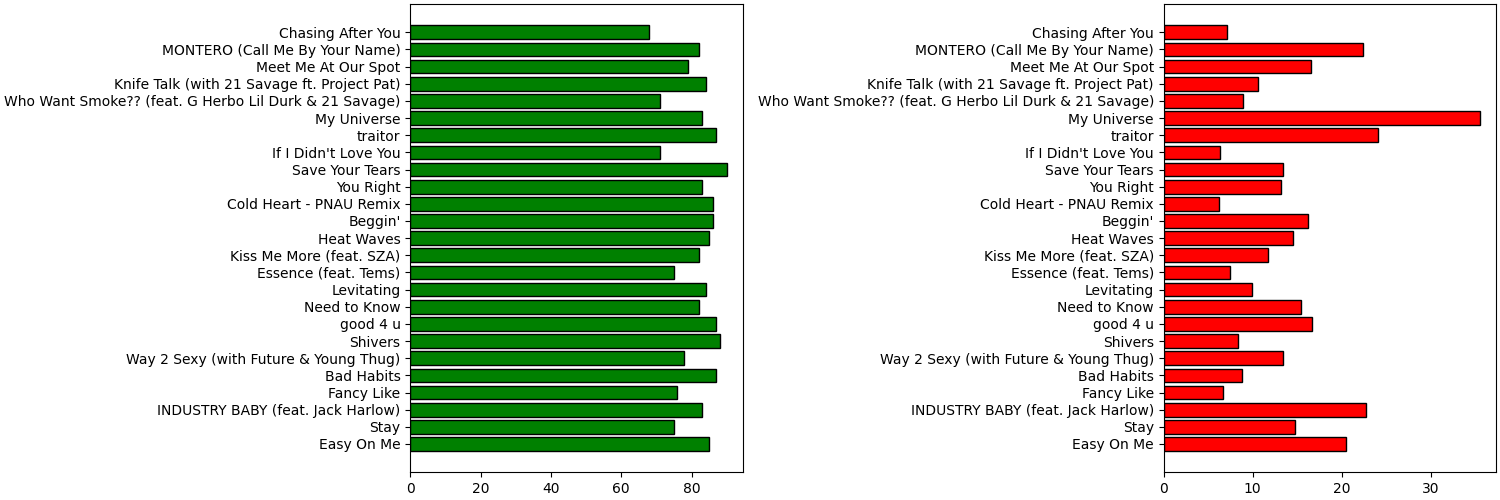
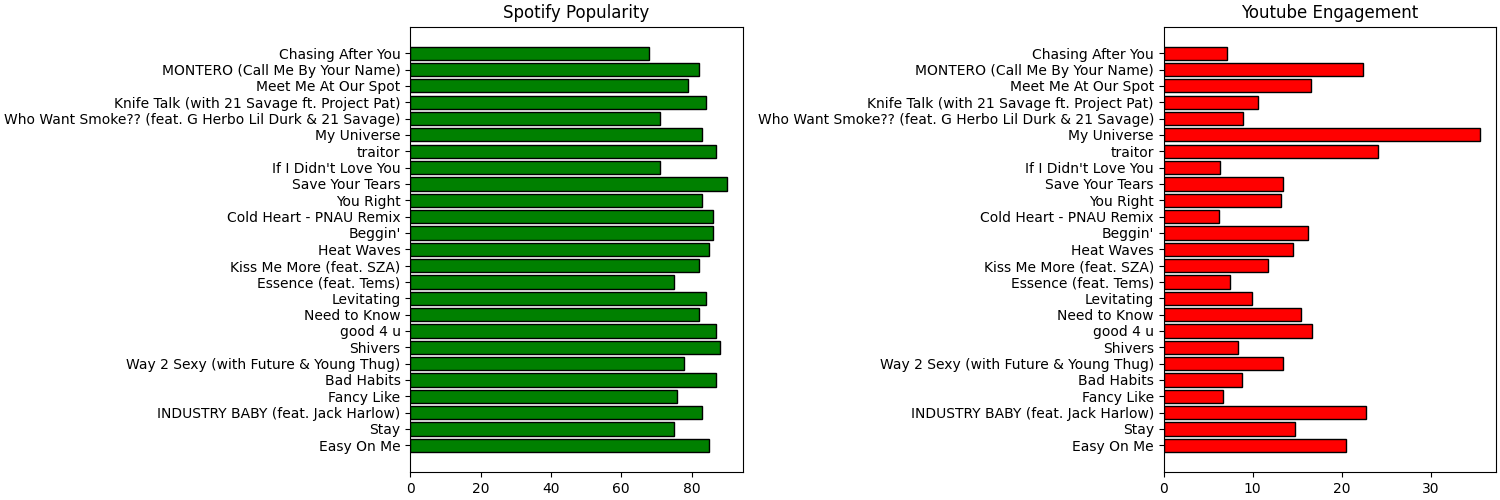
added titles

Changed region(s): [[0.0, 0.0, 1.0, 0.93]]

diff --git a/visuals.py b/visuals.py
@@ -34,22 +34,14 @@ def double_bar(data):
 
     ax[0,] = plt.subplot(121)
     ax[0].barh(X, Y_pop, align='center', color='green', edgecolor='black')
+    ax[0].title.set_text("Spotify Popularity")
   
     ax[1] = plt.subplot(122, sharey=ax[0])
     ax[1].barh(X, Y_eng, align='center', color='red', edgecolor='black')
+    ax[1].title.set_text("Youtube Engagement")
         
     plt.savefig("double_bar.png")
     plt.show()  
     plt.close()
 
 double_bar(processed)
-
-#plt.bar(x_axis - 0.2, Y_pop, 0.4, label = 'Spotify Popularity')
- #   plt.bar(x_axis + 0.2, Y_eng, 0.4, label = 'Youtube Engagement')
-  
-  #  plt.xticks(x_axis + 0.25/2, X)
-   # plt.xlabel("Songs")
-    #plt.ylabel("Metric")
-    #plt.title("Spotify Popularity vs. Youtube Engagement")
-    #plt.legend()
-    #plt.show()
